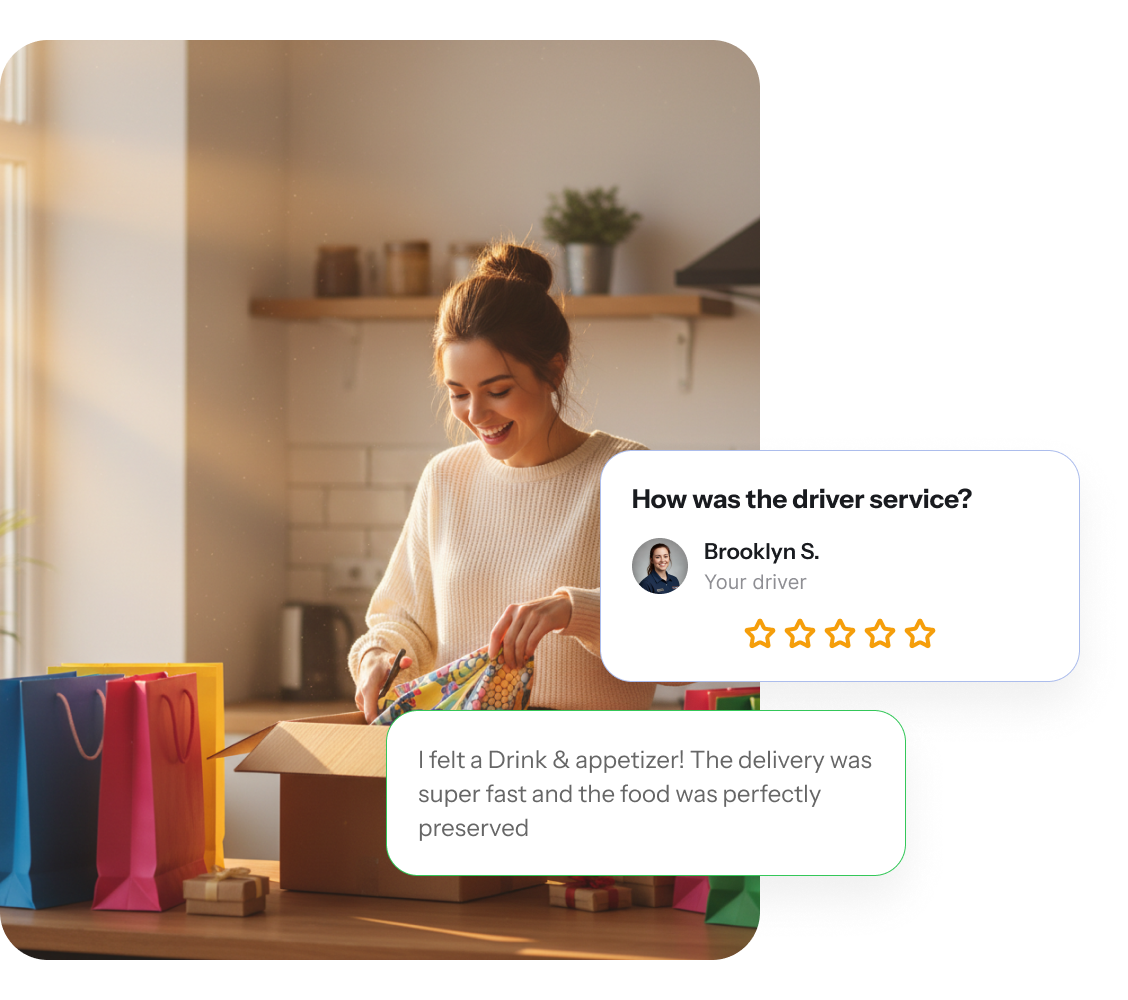
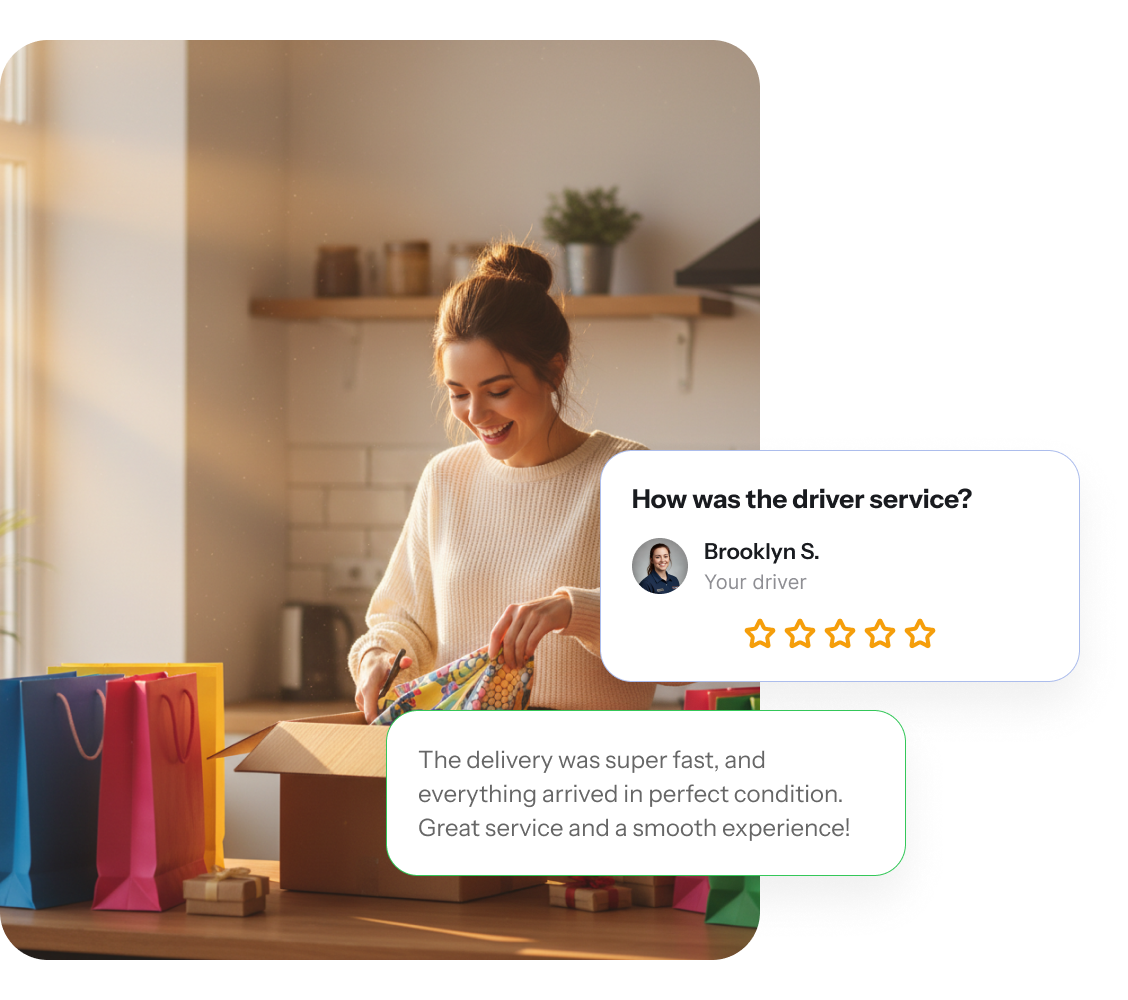
feat(ui): update landing section refinements

Changed region(s): [[0.3723, 0.744, 0.7757, 0.837]]

diff --git a/src/features/landing/sections/DeliveryJourney.tsx b/src/features/landing/sections/DeliveryJourney.tsx
@@ -238,7 +238,7 @@ function ReceiveConfirmationPanel() {
           </div>
           <div className="flex justify-between py-1">
             <span className="text-muted-foreground">Total</span>
-            <span className="font-semibold text-foreground">$24.99</span>
+            <span className="font-semibold text-foreground"> Tzs 50,000.</span>
           </div>
           <div className="flex justify-between py-1">
             <span className="text-muted-foreground">Est. Delivery</span>
@@ -291,7 +291,7 @@ function ProductOrderPanel() {
             </div>
             <div>
               <p className="text-sm font-bold text-foreground">Artisan Coffee Blend</p>
-              <p className="text-sm font-semibold text-slate-900">$24.99</p>
+              <p className="text-sm font-semibold text-slate-900"> Tzs 50,000.</p>
             </div>
           </div>
           <Button className="mt-4 w-full bg-emerald-500 text-[#FFFFFF] hover:bg-emerald-600">Place First Order</Button>

diff --git a/src/features/landing/sections/SecondSale.tsx b/src/features/landing/sections/SecondSale.tsx
@@ -106,7 +106,7 @@ function FirstClickMock() {
         </span>
         <div className="min-w-0">
           <p className="truncate text-sm font-semibold text-foreground">Artisan Coffee Blend</p>
-          <p className="text-sm font-semibold text-[#2648A6]">$24.99</p>
+          <p className="text-sm font-semibold text-[#2648A6]"> Tzs 50,000.</p>
         </div>
       </div>
       <Button className="w-full rounded-full bg-blue-800 text-[#FFFFFF] hover:bg-blue-700 active:scale-[0.98] transition-all">
